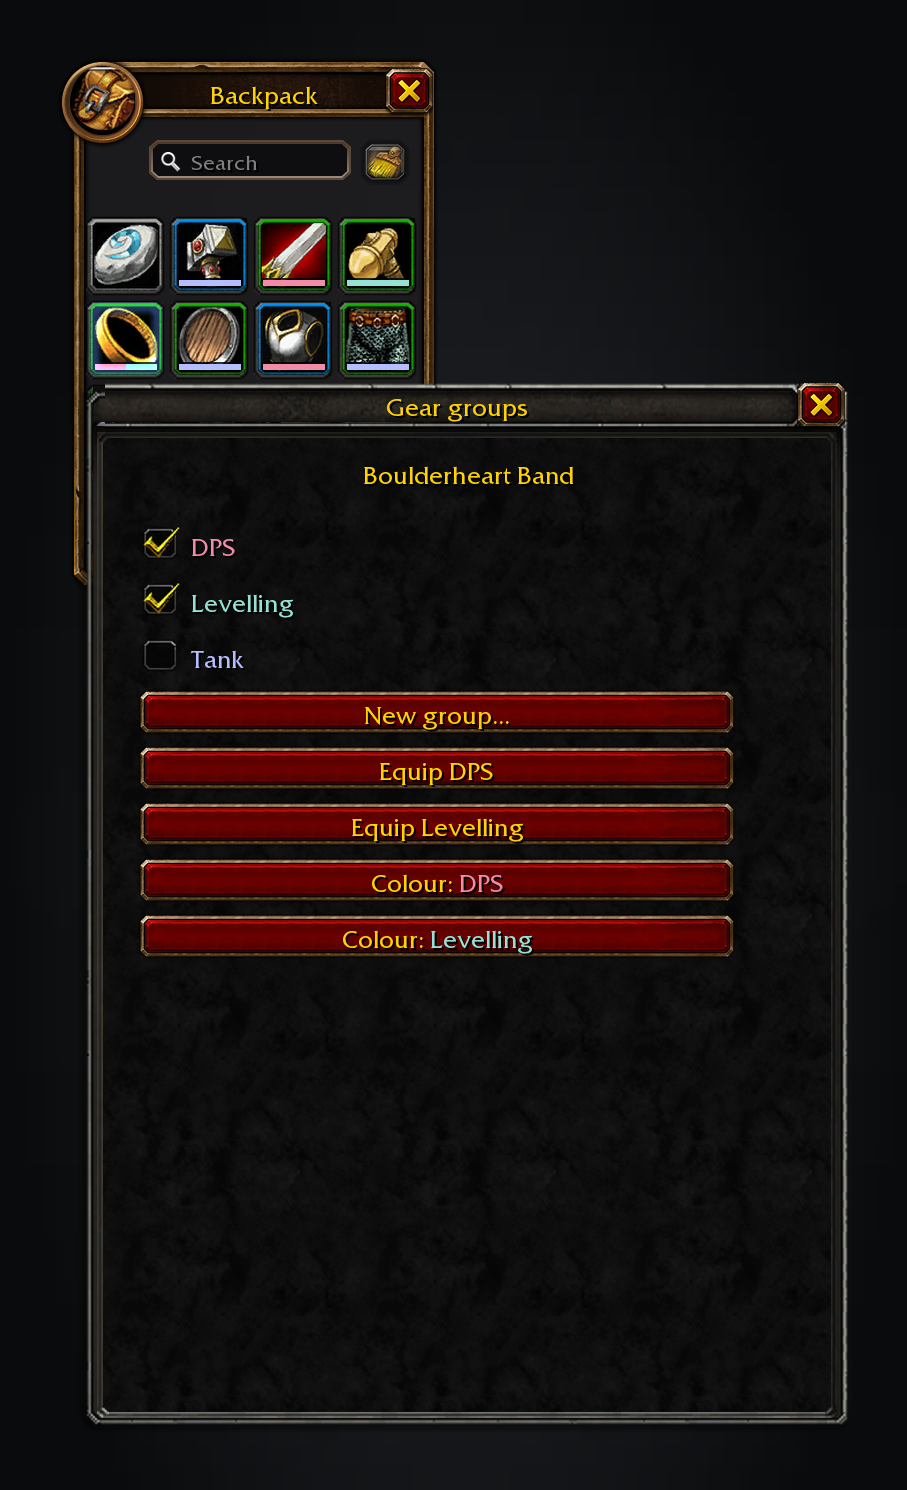
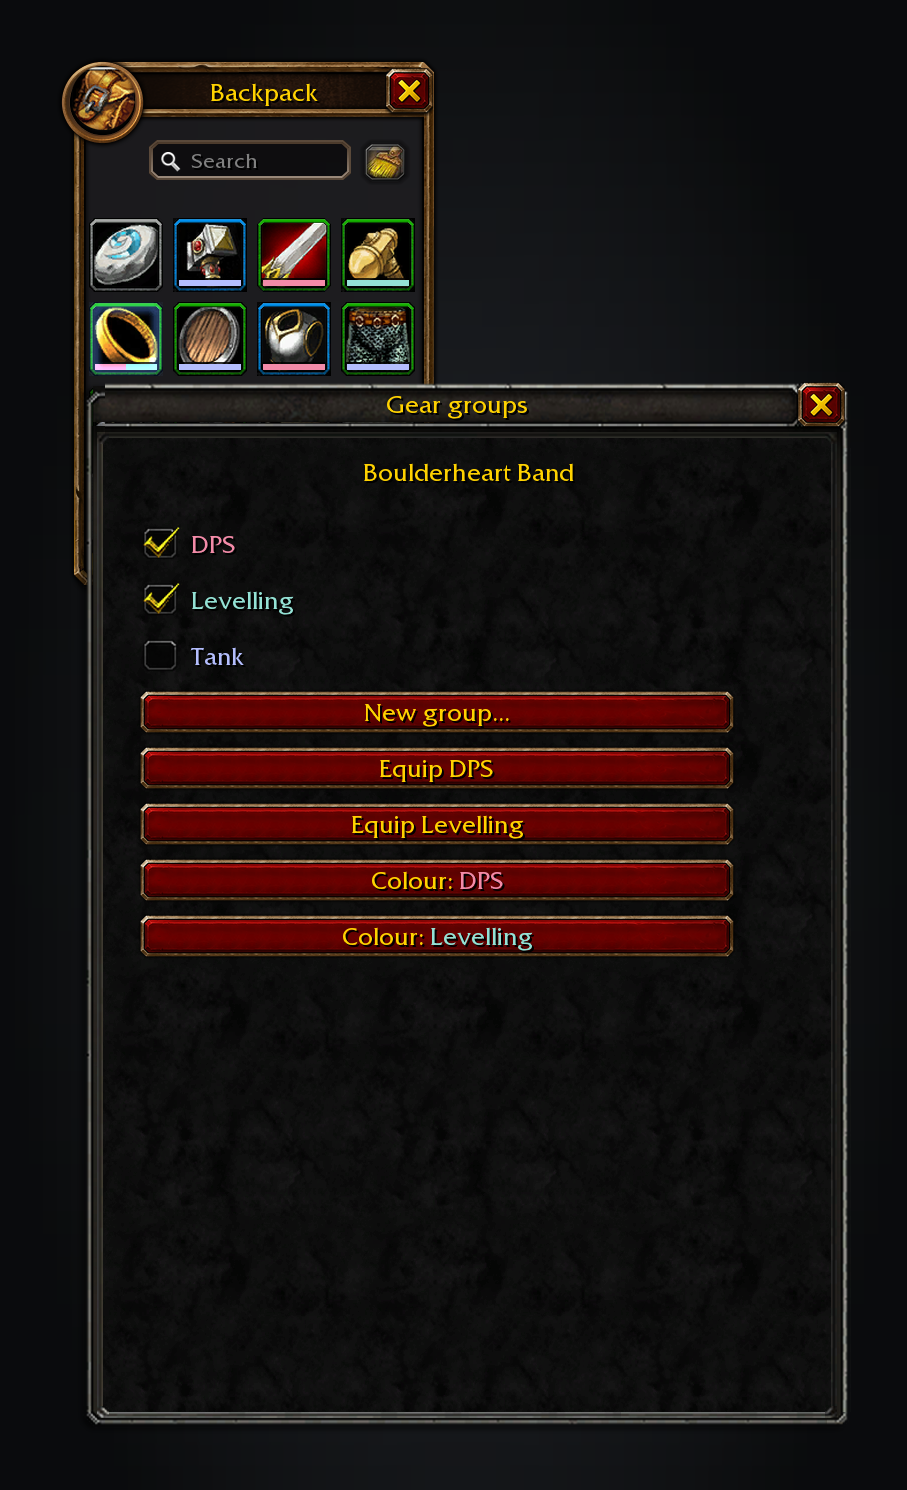
chore(release): 2.7.0 (#545)
Release preparation for **2.7.0**: the Chat options from #543.

- `CHANGELOG.md`: `## [2.7.0] - 2026-11-13` with the chat screenshot as
its release image.
- `UI/WhatsNew.lua`: the in-game What's new headline, translated in
every locale.
- `tools/screenshots.py`: a `chat` scene drawn from what `Chat/*.lua`
renders (wowmock render, not an in-game capture).
- The other screenshots are re-rendered by the current shared renderer;
the only change is text sitting 2 px higher.

![chat
options](https://raw.githubusercontent.com/cjber/tweaks-forever/f00bae6a4194030103b3a2554575c37cfa4b2be1/docs/screenshots/chat.png)

Re-rendered images in this PR:

![gear](https://raw.githubusercontent.com/cjber/tweaks-forever/f00bae6a4194030103b3a2554575c37cfa4b2be1/docs/screenshots/gear.png)

![menu](https://raw.githubusercontent.com/cjber/tweaks-forever/f00bae6a4194030103b3a2554575c37cfa4b2be1/docs/screenshots/menu.png)

![tooltips](https://raw.githubusercontent.com/cjber/tweaks-forever/f00bae6a4194030103b3a2554575c37cfa4b2be1/docs/screenshots/tooltips.png)

![quests](https://raw.githubusercontent.com/cjber/tweaks-forever/f00bae6a4194030103b3a2554575c37cfa4b2be1/docs/screenshots/quests.png)

![dungeons](https://raw.githubusercontent.com/cjber/tweaks-forever/f00bae6a4194030103b3a2554575c37cfa4b2be1/docs/screenshots/dungeons.png)

![dungeonmap](https://raw.githubusercontent.com/cjber/tweaks-forever/f00bae6a4194030103b3a2554575c37cfa4b2be1/docs/screenshots/dungeonmap.png)
[…]

diff --git a/tools/screenshots.py b/tools/screenshots.py
@@ -14,7 +14,7 @@ import re
 import sys
 from pathlib import Path
 
-from PIL import Image  # ty: ignore[unresolved-import]  # Pillow is local only, like wowmock
+from PIL import Image, ImageChops  # ty: ignore[unresolved-import]  # Pillow is local only, like wowmock
 
 FOREVER_CORE = Path(os.environ.get("FOREVER_CORE", Path(__file__).resolve().parents[2] / "forever-core")).expanduser()
 WOWMOCK = FOREVER_CORE / "tools" / "wowmock"
@@ -858,12 +858,203 @@ def quest_abandon(ui):
     scene(ui, [(canvas, 0, 0)], MARGIN).image.save(OUT / "quests.png")
 
 
+# Chat: a docked ChatFrame1 with the Chat page's options on. The frame's own chrome is the stock ChatFrame art,
+# which the client draws by FileDataID: it is the host's art, not the addon's, and no atlas covers that frame.
+CHAT = Font(ARIALN, 14, (1, 1, 1), (1, -1))  # ChatFontNormal, inheriting NumberFont_Shadow_Med
+CHAT_TAB = FONTS["GameFontNormalSmall"]  # ChatTabTemplate's ButtonText
+CHAT_WIDTH, CHAT_LINE, CHAT_TEXT = 430, 14, 4
+# Host chrome for the stock frame in UI_ART_BUILD, named so a stale pin reads: the client's own ChatFrame art.
+CHAT_ART = {
+    "background": 130937,  # Interface\ChatFrame\ChatFrameBackground
+    "corner": 374189,  # Interface\ChatFrame\UI-ChatFrame-BorderCorner
+    "left": 374190,  # Interface\ChatFrame\UI-ChatFrame-BorderLeft
+    "top": 374191,  # Interface\ChatFrame\UI-ChatFrame-BorderTop
+    "tab-bg-left": 374162,  # Interface\ChatFrame\ChatFrameTab-BGLeft
+    "tab-bg-mid": 374164,  # Interface\ChatFrame\ChatFrameTab-BGMid
+    "tab-bg-right": 374166,  # Interface\ChatFrame\ChatFrameTab-BGRight
+    "tab-selected-left": 374174,  # Interface\ChatFrame\ChatFrameTab-SelectedLeft
+    "tab-selected-mid": 374176,  # Interface\ChatFrame\ChatFrameTab-SelectedMid
+    "tab-selected-right": 374178,  # Interface\ChatFrame\ChatFrameTab-SelectedRight
+}
+# The frame fades to DEFAULT_CHATFRAME_ALPHA (0.25) when the cursor is away; over the plain backdrop it is raised so
+# the lines read, as a dark scene stands in for the game world here.
+CHAT_ALPHA = 0.6
+CHAT_TIMESTAMP = (0.5, 0.5, 0.5)  # GRAY_FONT_COLOR, the client's own secondary chat colour
+CHAT_TYPE = {
+    "channel": (1.0, 0.7529, 0.7529),  # ChatTypeInfo CHANNEL
+    "guild": (0.25, 1.0, 0.25),  # GUILD
+    "party": (2 / 3, 2 / 3, 1.0),  # PARTY
+    "system": (1.0, 1.0, 0.0),  # SYSTEM
+}
+# RAID_CLASS_COLORS.
+CHAT_CLASS = {
+    "warrior": (0.78, 0.61, 0.43),
+    "paladin": (0.96, 0.55, 0.73),
+    "rogue": (1.0, 0.96, 0.41),
+    "priest": (1.0, 1.0, 1.0),
+}
+# The tooltip quality colours, as the client wraps an item link's display text.
+CHAT_ITEM_QUALITY = {0: "9d9d9d", 1: "ffffff", 2: "1eff00", 3: "0070dd", 4: "a335ee", 5: "ff8000"}
+
+
+def chat_grey(text):
+    """GRAY_FONT_COLOR: the level after a name, a fold's count, the divider's label and a timestamp."""
+    return colored(text, CHAT_TIMESTAMP)
+
+
+def chat_name(name, cls, level):
+    """The client's bracketed sender, class-coloured by Chat/ClassLevels.lua with the level in grey inside it."""
+    return f"[{colored(name, CHAT_CLASS[cls])} {chat_grey(str(level))}]"
+
+
+def chat_item(ui, item_id):
+    """An item link with Chat/ItemIcons.lua's icon: the 64-texel square crop's 5 to 59 box, at the line's height.
+    The link's display text is what the player sees; the client's hyperlink payload is not part of a render."""
+    item = ui.item(item_id)
+    icon = f"|T{item.icon}:0:0:0:0:64:64:5:59:5:59|t"
+    return f"|cff{CHAT_ITEM_QUALITY[item.quality]}{icon} [{item.name}]|r"
+
+
+def chat_web(url):
+    """Chat/WebLinks.lua's link: the address itself in its light blue, as the player reads it."""
+    return colored(f"[{url}]", (0x66 / 255, 0xBB / 255, 1.0))
+
+
+def chat_host(ui, key):
+    """The stock ChatFrame's own art, by the FileDataID the client draws it with: host chrome, not the addon's.
+    Read through _image because the public texture() refuses the client's pre-Legion chrome."""
+    return ui._image(CHAT_ART[key])
+
+
+def chat_additive(image):
+    """An ADD-layer texture as straight alpha, so it lights the tab under it instead of painting its black."""
+    r, g, b, a = image.split()
+    light = ImageChops.multiply(ImageChops.lighter(ImageChops.lighter(r, g), b), a)
+    out = image.copy()
+    out.putalpha(light)
+    return out
+
+
+def chat_tabs(ui, canvas, x, y, names, selected=0):
+    """ChatTabTemplate: Background left/mid/right 16x32, the selected tab's ADD layer in NORMAL_FONT_COLOR, and
+    PanelTemplates_TabResize's width (the text + 20) with tabs one unit apart."""
+    parts = {
+        (kind, side): chat_host(ui, f"tab-{kind}-{side}")
+        for kind in ("bg", "selected")
+        for side in ("left", "mid", "right")
+    }
+    active = {side: chat_additive(parts["selected", side]) for side in ("left", "mid", "right")}
+    for index, label in enumerate(names):
+        width = max(32, canvas.text_width(label, CHAT_TAB) + 20)
+        alpha = 1.0 if index == selected else 0.6
+        canvas.draw(parts["bg", "left"], x - 2, y, 16, 32, (1, 1, 1, alpha))
+        canvas.draw(parts["bg", "mid"], x + 14, y, width - 28, 32, (1, 1, 1, alpha))
+        canvas.draw(parts["bg", "right"], x + width - 14, y, 16, 32, (1, 1, 1, alpha))
+        if index == selected:
+            canvas.draw(active["left"], x - 2, y, 16, 32, (*NORMAL, alpha))
+            canvas.draw(active["mid"], x + 14, y, width - 28, 32, (*NORMAL, alpha))
+            canvas.draw(active["right"], x + width - 14, y, 16, 32, (*NORMAL, alpha))
+        canvas.text(x, y + 16, label, CHAT_TAB, justify="CENTER", width=width)
+        x += width + 1
+
+
+def chat_frame(ui, rows, tabs, selected=0):
+    """A docked ChatFrame1: tabs over FloatingBorderedFrame's background and border, lines bottom-aligned.
+    `rows` are (kind, text, colour), a "divider" row drawn in its own grey."""
+    probe = ui.canvas(1, 1)
+    laid = []
+    for kind, text, colour in rows:
+        lines = [text] if kind == "divider" else wrap_text(probe, text, CHAT, CHAT_WIDTH - 2 * CHAT_TEXT - 8)
+        laid.append((lines, colour))
+    total = CHAT_LINE * sum(len(lines) for lines, _ in laid)
+    height = max(120, total + 12)
+    canvas = ui.canvas(CHAT_WIDTH + 26, height + 48)
+    left, top = 6, 36
+    bg_x, bg_y, bg_w, bg_h = left - 2, top + 3, CHAT_WIDTH + 17, height - 9
+    canvas.draw(
+        chat_host(ui, "background"),
+        bg_x,
+        bg_y,
+        bg_w,
+        bg_h,
+        (0, 0, 0, CHAT_ALPHA),
+    )
+    # FloatingBorderedFrame's border: 8-square corners 4 outside the background, 16-wide edges that tile along it
+    # (the art is uniform on that axis, so drawing the edge at the length is the same pixels).
+    corner = chat_host(ui, "corner")
+    edge_left = chat_host(ui, "left")
+    edge_top = chat_host(ui, "top")
+    shade = (1, 1, 1, CHAT_ALPHA)
+    canvas.draw(corner, bg_x - 4, bg_y - 4, 8, 8, shade)
+    canvas.draw(corner, bg_x + bg_w - 4, bg_y - 4, 8, 8, shade, flip_h=True)
+    canvas.draw(corner, bg_x - 4, bg_y + bg_h - 4, 8, 8, shade, flip_v=True)
+    canvas.draw(corner, bg_x + bg_w - 4, bg_y + bg_h - 4, 8, 8, shade, flip_h=True, flip_v=True)
+    canvas.draw(edge_left, bg_x - 4, bg_y + 4, 16, bg_h - 8, shade)
+    canvas.draw(edge_left, bg_x + bg_w - 12, bg_y + 4, 16, bg_h - 8, shade, flip_h=True)
+    canvas.draw(edge_top, bg_x + 4, bg_y - 4, bg_w - 8, 16, shade)
+    canvas.draw(edge_top, bg_x + 4, bg_y + bg_h - 12, bg_w - 8, 16, shade, flip_v=True)
+    chat_tabs(ui, canvas, left, bg_y - 32, tabs, selected)
+    y = bg_y + bg_h - 6 - total
+    for lines, colour in laid:
+        for line in lines:
+            canvas.text(bg_x + 2 + CHAT_TEXT, y, line, CHAT, colour)
+            y += CHAT_LINE
+    return canvas
+
+
+def chat(ui):
+    """The chat window with the Chat options on: short headers, class colours with levels, an item icon, a folded
+    repeat, a mention marker, a web link, and the divider above the lines that survived a /reload."""
+    members = {
+        "ironquill": chat_name("Ironquill", "rogue", 37),
+        "tamsin": chat_name("Tamsin", "paladin", 38),
+        "oakhelm": chat_name("Oakhelm", "warrior", 42),
+        "mirabelle": chat_name("Mirabelle", "priest", 41),
+    }
+    ring = chat_item(ui, 281927)  # Boulderheart Band, a level 22 rare from the Forever build
+    url = "https://www.wowhead.com/classic/item=281927"
+    rows = [
+        (
+            "line",
+            chat_grey("13:58") + f" [G] {members['oakhelm']}: anyone up for a Deadmines run tonight?",
+            CHAT_TYPE["guild"],
+        ),
+        (
+            "line",
+            chat_grey("14:01") + f" [Trade] {members['ironquill']}: WTS {ring} 45s, pst {chat_grey('x3')}",
+            CHAT_TYPE["channel"],
+        ),
+        (
+            "line",
+            chat_grey("14:02") + f" [General] {members['tamsin']}: anyone know where the Defias traitor is?",
+            CHAT_TYPE["channel"],
+        ),
+        (
+            "line",
+            chat_grey("14:03") + f" [G] {members['oakhelm']}: price list here {chat_web(url)}",
+            CHAT_TYPE["guild"],
+        ),
+        ("line", chat_grey("14:04") + " Aldric has come online.", CHAT_TYPE["system"]),
+        ("divider", atlas_markup("communities-chat-date-line", 165, 8) + " Before your /reload", CHAT_TIMESTAMP),
+        (
+            "line",
+            chat_grey("14:09")
+            + f" [P] {members['mirabelle']}: "
+            + atlas_markup("communities-icon-chat", 12, 12)
+            + f" {colored('Barry', NORMAL)} can you pull the next pack? I'm out of mana",
+            CHAT_TYPE["party"],
+        ),
+    ]
+    scene(ui, [(chat_frame(ui, rows, ("General", "Combat Log")), 0, 0)], MARGIN).save(OUT / "chat.png")
+
+
 UI_ART_BUILD = "1.60.1.70124"
 
 
 def main():
     ui = Ui(build=UI_ART_BUILD, scale=2)
     quest_abandon(ui)
+    chat(ui)
     gear(ui)
     menu(ui)
     exploration(ui)

diff --git a/CHANGELOG.md b/CHANGELOG.md
@@ -12,6 +12,10 @@ optional `### For addon authors` subsection after a version's player bullets.
 
 ## [Unreleased]
 
+## [2.7.0] - 2026-11-13
+
+<!-- discord-image: docs/screenshots/chat.png -->
+
 - **Chat options, all off until you turn them on.** Short channel names ([2. Trade - City] reads [Trade], [Guild] reads [G]), class colours with the level beside the name when the game knows it, item icons before item links, identical repeats folded into a grey x2 or x3, a chat icon and your name in gold when someone mentions you, and clickable web links that open a copy box. Each is its own switch under Chat, so you can take one without the others.
 - **Your chat survives a reload.** The last 200 lines of each docked chat window come back above a Before your /reload line, saved for that character only and never for a line the game keeps secret. The Chat page also opens the game's own Chat Timestamps setting.
 - **Whisper tabs and a player card.** Each person who whispers you gets the game's own docked tab, with a count of whispers you have not read yet and a grey line saying when you last grouped with them. Hovering a player's name in chat shows what the game states exactly: level, race and class when it knows them, guild and zone from your own lists, your last group together and your whisper count. Nothing is sent to other players, and every switch is off until you turn it on.

diff --git a/README.md b/README.md
@@ -58,6 +58,12 @@ Every feature has its own setting; [docs/features.md](docs/features.md) has the 
 - **Small things.** Quiet repeated macro errors, hints for my other Forever addons (with a Forever addons settings page) and one line in chat after an update are on. Hide macro names, maximum camera zoom and no screen glow are off until you turn them on.
 
 <p align="center">
+<img src="https://raw.githubusercontent.com/cjber/tweaks-forever/main/docs/screenshots/chat.png" width="768" alt="A chat window with short headers, class colours and levels, an item icon, a folded repeat, a mention and a web link">
+</p>
+
+<p align="center">Chat options on: short headers, class colours and levels, an item icon, a folded repeat, a mention, a web link and the lines that survived a reload.</p>
+
+<p align="center">
 <img src="https://raw.githubusercontent.com/cjber/tweaks-forever/main/docs/screenshots/nameplates.png" width="644" alt="Three enemy nameplates, the target outlined with a Fireball cast">
 </p>
 

diff --git a/docs/curseforge.md b/docs/curseforge.md
@@ -18,6 +18,10 @@ Inside a dungeon or raid the map opens on its painted parchment sheet. Click an 
 
 Every dungeon and raid entrance, with retail's icons. Blackrock Mountain lists all four.
 
+![A chat window with short headers, class colours and levels, an item icon, a folded repeat, a mention and a web link](https://raw.githubusercontent.com/cjber/tweaks-forever/main/docs/screenshots/chat.png)
+
+Chat options on: short headers, class colours with the level beside a name, an item's icon before its link, a folded repeat, a mention marker and clickable web links. The lines that survived a reload sit above their own divider.
+
 ![Three enemy nameplates with a Fireball cast](https://raw.githubusercontent.com/cjber/tweaks-forever/main/docs/screenshots/nameplates.png)
 
 Nameplates in retail's own frame, with your target outlined.
